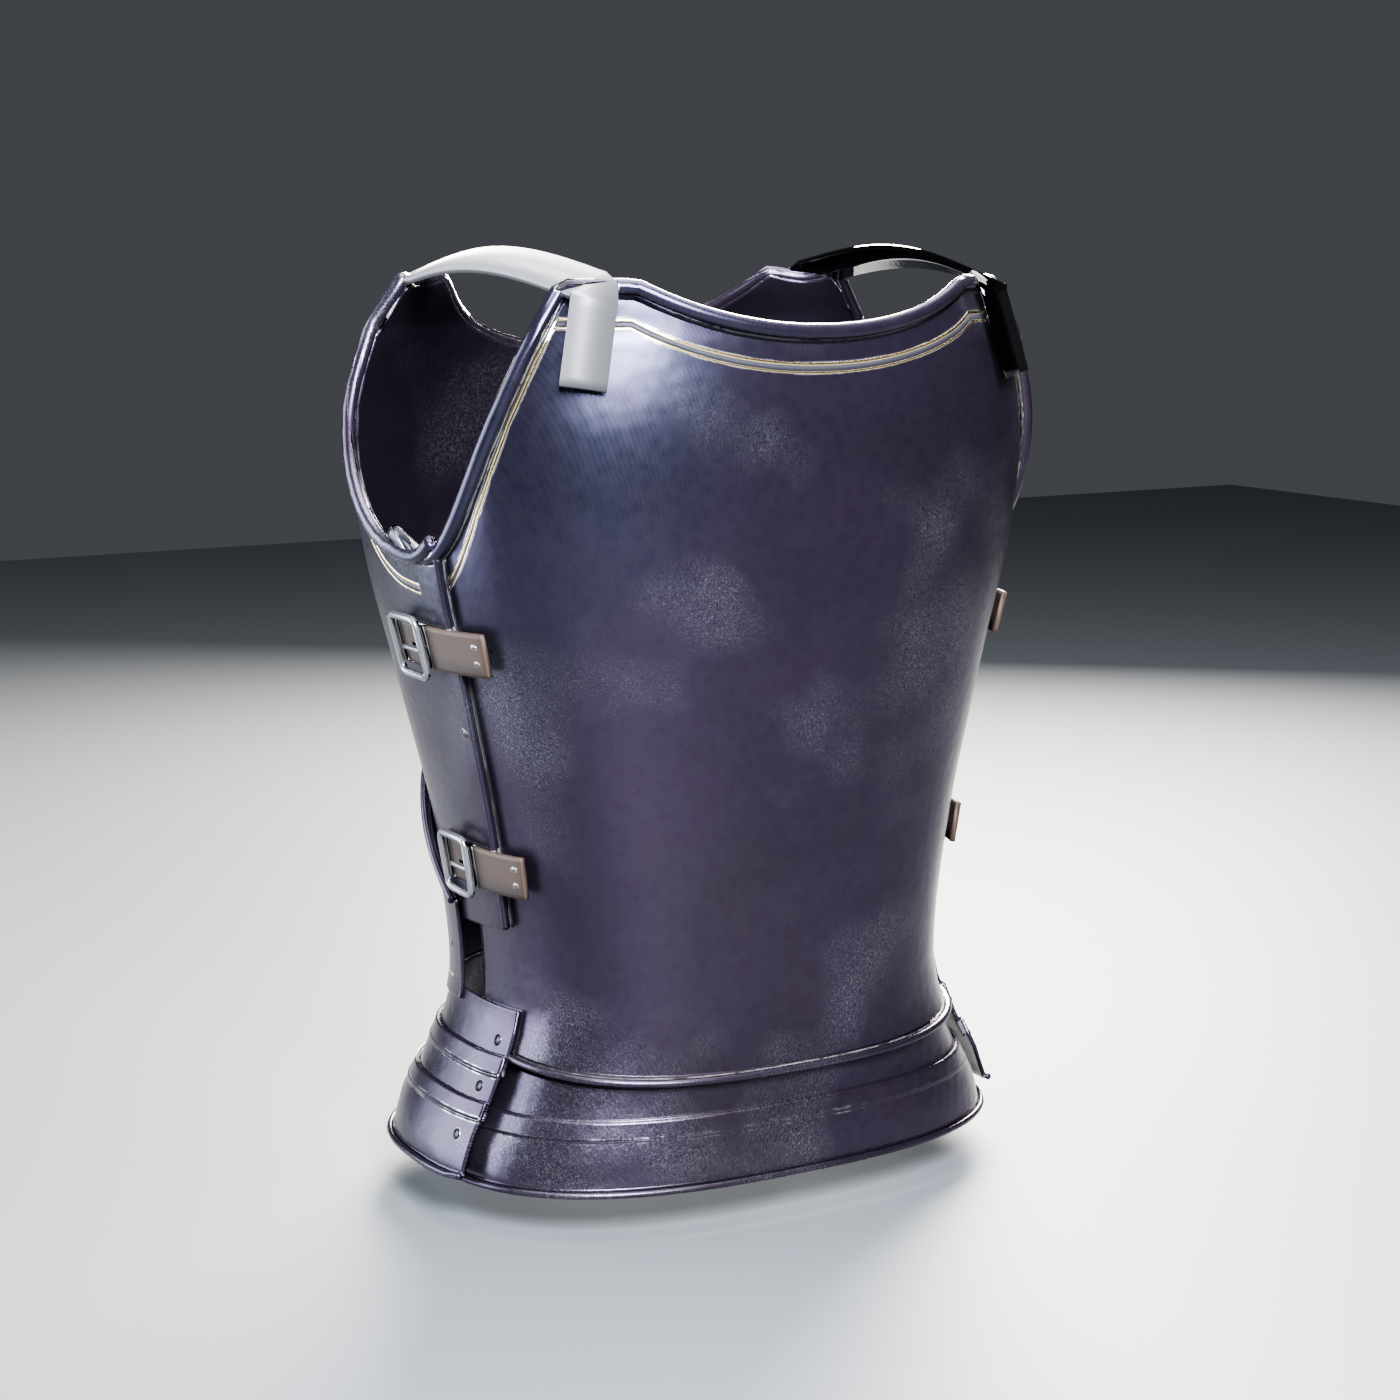
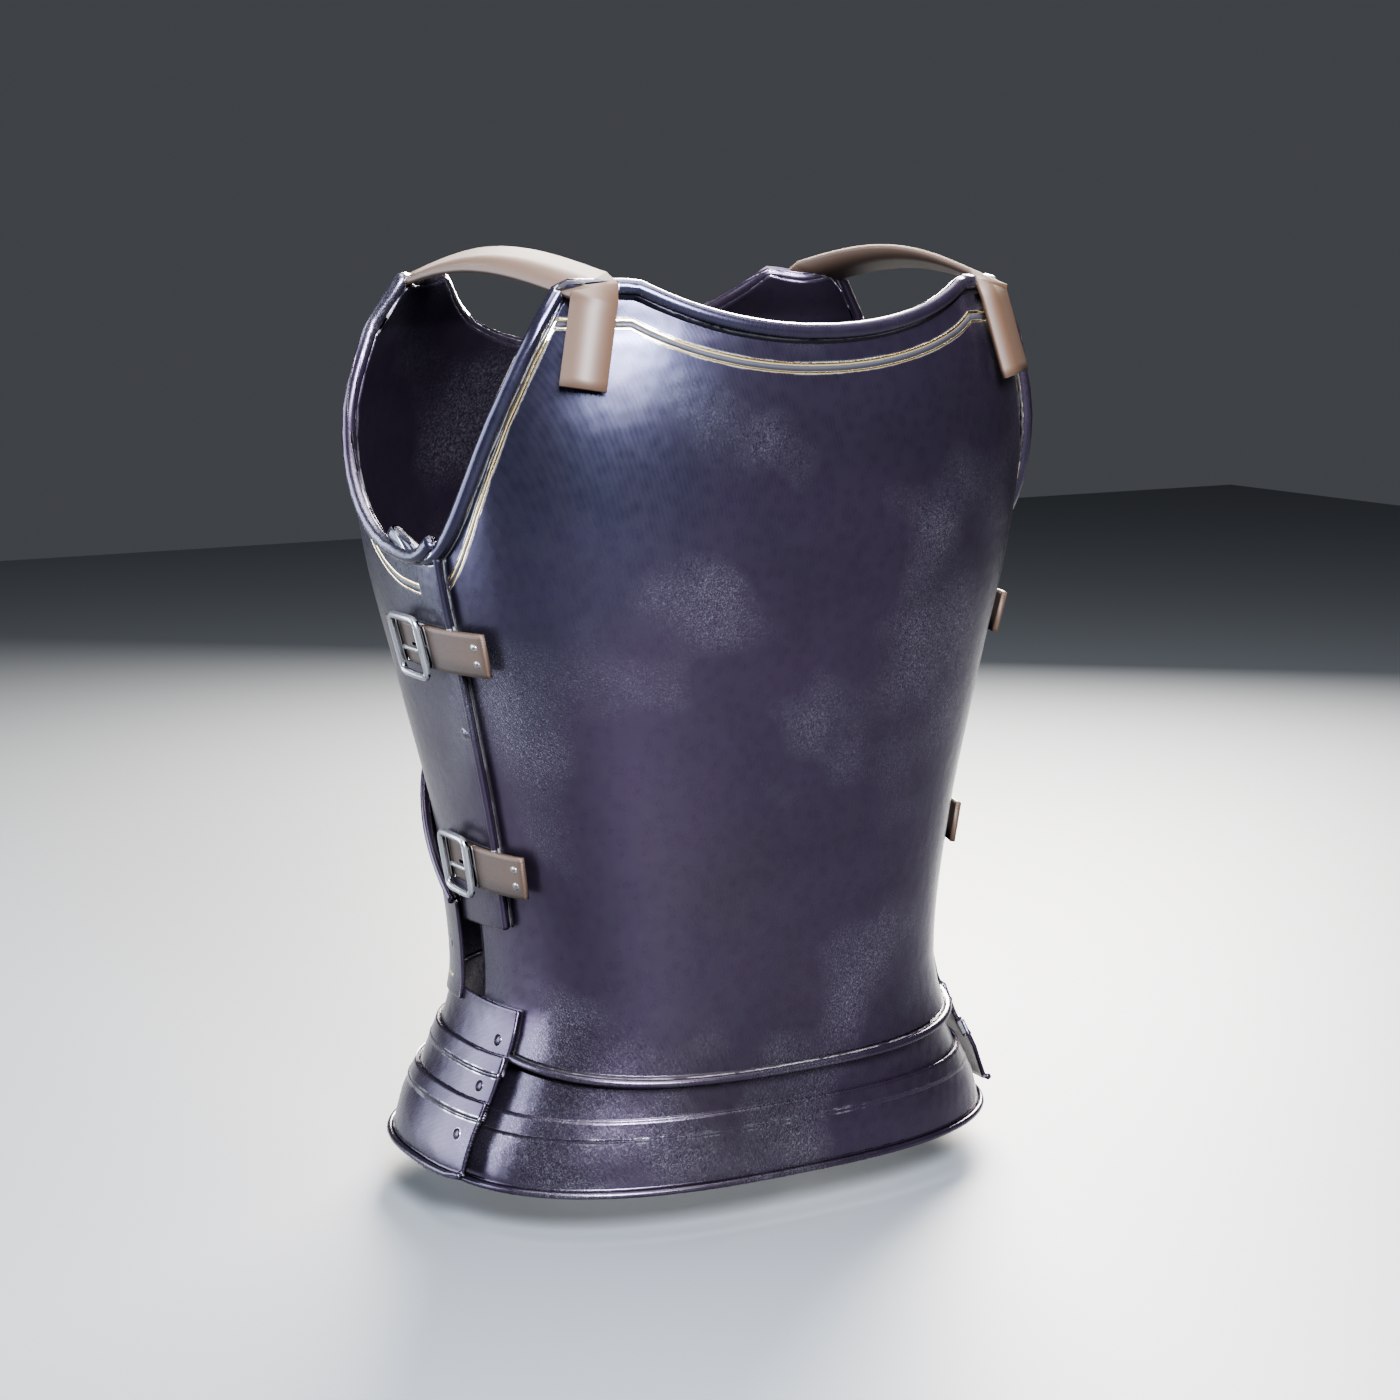
checkking: #64 chest straps render as leather (collapsed-UV texels painted, UVs unchanged)

Changed region(s): [[0.5529, 0.1536, 0.7371, 0.2764], [0.2764, 0.1536, 0.4607, 0.2764]]

diff --git a/assets/checkking/Obsidian-Sovereign/Chest/source/fix_straps.py b/assets/checkking/Obsidian-Sovereign/Chest/source/fix_straps.py
@@ -1,0 +1,61 @@
+# #64 strap fix without touching UVs (the fitted SK chest keeps the shipped layout):
+# LP strap faces with collapsed (zero-area) UVs sample single texels, which hold whatever the bake left there (grey/white).
+# Paint plain leather into exactly those texels, but only where no real (non-degenerate) UV face covers them.
+#   blender -b bake_ready.blend -P fix_straps.py [-- dry]
+import os, sys, bpy, numpy as np
+from mathutils.bvhtree import BVHTree
+D = os.path.dirname(os.path.abspath(__file__)); TEX = os.path.join(D, 'tex'); N = 4096
+DRY = 'dry' in sys.argv[sys.argv.index('--') + 1:] if '--' in sys.argv else False
+dg = bpy.context.evaluated_depsgraph_get()
+LP = [o for o in bpy.data.objects if o.type == 'MESH' and o.name != 'HP'][0]; HP = bpy.data.objects['HP']
+bvh = BVHTree.FromObject(HP, dg); hpm = [s.material.name.split('.')[0] for s in HP.material_slots]
+uv = LP.data.uv_layers.active.data; inv = HP.matrix_world.inverted()
+
+def tri_area(p):
+    a = 0
+    for i in range(1, len(p) - 1): a += abs((p[i][0] - p[0][0]) * (p[i+1][1] - p[0][1]) - (p[i+1][0] - p[0][0]) * (p[i][1] - p[0][1])) / 2
+    return a
+cover = np.zeros((N, N), bool); target = np.zeros((N, N), bool)
+yy, xx = None, None
+for f in LP.data.polygons:
+    p = [tuple(uv[i].uv * N) for i in f.loop_indices]
+    if tri_area(p) > 0.25:   # real face (> 1/4 texel): mark its texels as covered
+        P = np.array(p); x0, y0 = np.floor(P.min(0)).astype(int); x1, y1 = np.ceil(P.max(0)).astype(int)
+        x0, y0 = max(x0, 0), max(y0, 0); x1, y1 = min(x1, N - 1), min(y1, N - 1)
+        gx, gy = np.meshgrid(np.arange(x0, x1 + 1) + 0.5, np.arange(y0, y1 + 1) + 0.5)
+        inside = np.zeros(gx.shape, bool)
+        for i in range(1, len(P) - 1):   # fan triangles, sign test with a small tolerance
+            a, b, c = P[0], P[i], P[i + 1]
+            d = lambda u, v: (gx - v[0]) * (u[1] - v[1]) - (u[0] - v[0]) * (gy - v[1])
+            s1, s2, s3 = d(a, b), d(b, c), d(c, a)
+            inside |= ~(((s1 < -1e-3) | (s2 < -1e-3) | (s3 < -1e-3)) & ((s1 > 1e-3) | (s2 > 1e-3) | (s3 > 1e-3)))
+        cover[y0:y1 + 1, x0:x1 + 1] |= inside
+        continue
+    m = hpm[HP.data.polygons[bvh.find_nearest(inv @ (LP.matrix_world @ f.center))[2]].material_index]
+    if m != 'Leather': continue
+    P = np.array(p)   # collapsed face: mark the texels along its points/line (bilinear: 2x2 around each sample)
+    for t in np.linspace(0, 1, 9):
+        for i in range(len(P)):
+            q = P[i] * (1 - t) + P[(i + 1) % len(P)] * t
+            x, y = int(q[0] - 0.5), int(q[1] - 0.5)
+            target[max(y, 0):min(y + 2, N), max(x, 0):min(x + 2, N)] = True
+paint = target   # incl. texels shared with real faces: those are ~77% side-strap leather already; flat normal is what fixes the broken tangents
+print('FIX target', int(target.sum()), 'overlap-with-real', int((target & cover).sum()), 'paint', int(paint.sum()))
+if not DRY:
+    def srgb(l): return 1.055 * l ** (1 / 2.4) - 0.055 if l > 0.0031308 else 12.92 * l
+    vals = {'T_ObsidianSovereign_Chest_BaseColor': [srgb(v) for v in (0.034, 0.017, 0.008)],
+            'T_ObsidianSovereign_Chest_ORM': [1.0, 0.6, 0.0],
+            'T_ObsidianSovereign_Chest_Normal_DirectX': [0.5, 0.5, 1.0],
+            'T_ObsidianSovereign_Chest_Normal_OpenGL': [0.5, 0.5, 1.0]}
+    for name, v in vals.items():
+        im = bpy.data.images.load(os.path.join(TEX, name + '.png')); im.colorspace_settings.name = 'Non-Color'
+        a = np.empty(N * N * 4, np.float32); im.pixels.foreach_get(a); a = a.reshape(N, N, 4)   # rows bottom-up = UV v
+        a[paint, :3] = v
+        im.pixels.foreach_set(a.ravel()); im.filepath_raw = os.path.join(TEX, name + '.png'); im.save()
+        print('FIX wrote', name)
+if DRY:
+    im = bpy.data.images.load(os.path.join(TEX, 'T_ObsidianSovereign_Chest_BaseColor.png')); im.colorspace_settings.name = 'Non-Color'
+    a = np.empty(N * N * 4, np.float32); im.pixels.foreach_get(a); a = a.reshape(N, N, 4)[..., :3]
+    for nm, msk in (('overlap', target & cover), ('paint', paint)):
+        v = a[msk]; lum = v.mean(1); brown = (v[:, 0] > v[:, 2] * 1.4) & (lum < 0.35)
+        print('FIX', nm, 'mean sRGB', v.mean(0).round(3), 'brown-ish %', round(100 * brown.mean(), 1), 'bright(>0.4) %', round(100 * (lum > 0.4).mean(), 1))

diff --git a/handoffs/obsidian-sovereign/CHEST_V2_TEXTURES_HANDOFF.md b/handoffs/obsidian-sovereign/CHEST_V2_TEXTURES_HANDOFF.md
@@ -8,7 +8,7 @@ The shipped steel BaseColor sat at ~0.02 linear almost everywhere (texture p10-p
 
 Renders: `assets/checkking/Obsidian-Sovereign/Chest/renders/chest4k_v2_*.png` (baked game mesh, Cycles).
 
-**Known issue (old, not new in v2):** the two over-the-shoulder leather straps bake as grey/white instead of leather (visible in the old renders too). They sit under the pauldrons when worn. checkking takes this as the next fix on #64.
+**Strap fix (in this push):** the two over-the-shoulder straps rendered grey/white (old bug): 438 of their 466 faces have zero-area UVs, so they sampled stray texels and got broken tangents. `source/fix_straps.py` paints plain leather + a flat normal into exactly the texels those faces sample, without changing the UVs (the fitted SK chest stays valid). Proper strap UVs would mean re-exporting the skinned chest, so that waits until someone re-fits it.
 
 ## Part 1: textures (this hand-off)
 
